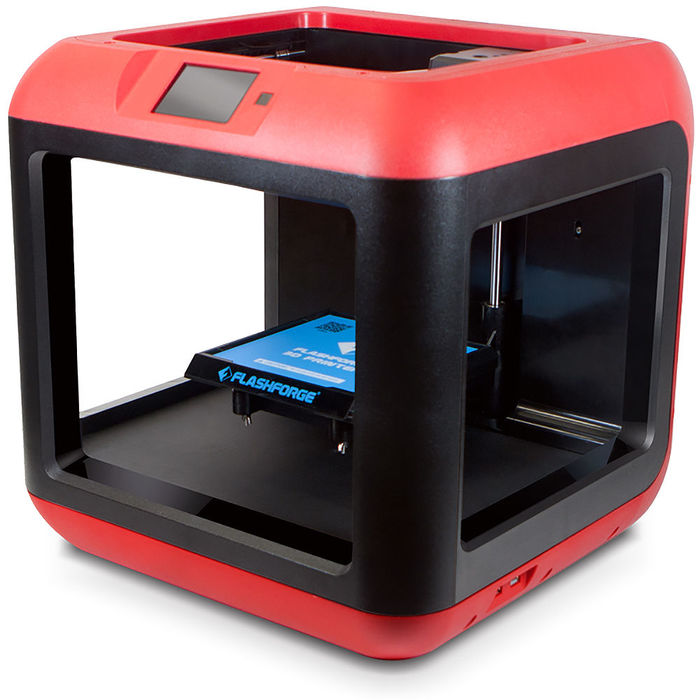
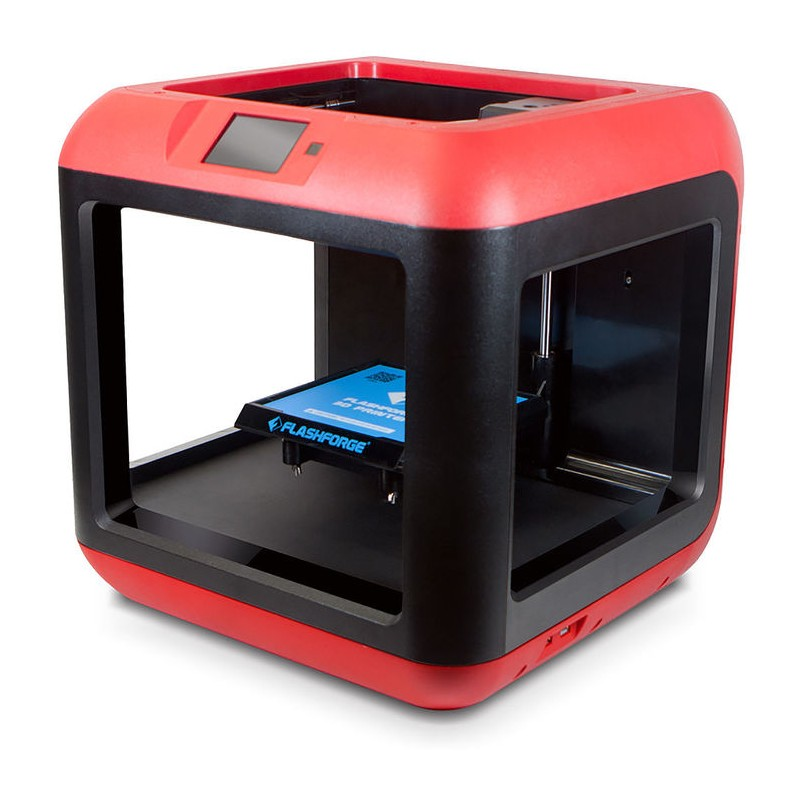
feat: padroniza as imagens dos equipamentos em quadrado branco
As 15 imagens compartilhavam altura de 700px, mas as larguras iam de 497 a
933 — proporcoes de 0,71 a 1,33. Como o CSS usava object-fit: cover, cada
uma era cortada de um jeito diferente: umas perdiam as laterais, outras o
topo. Era dai que vinha a falta de padrao nos cards.

Agora todas sao 800x800 com fundo branco e 6% de respiro, e os tres pontos
de renderizacao passam a usar 'contain' sobre ladrilho branco. Nomes e
extensoes preservados, porque o imagePath do banco aponta para eles.

Um desses pontos nao era CSS: o card do painel admin em Perfil.tsx usava
objectFit em estilo inline.

Tambem removidas de public/ as 14 copias identicas das mesmas imagens, que
nao eram usadas por codigo nenhum — o app monta as URLs contra
localhost:3000/uploads. Ficaram so o Termos_de_Uso.pdf e o background2.png,
que sao de fato referenciados. As copias ja tinham comecado a divergir:
faltava o Bambu_LAB_01.png em public/.

Ressalva: 8 das 15 sao fotos de ambiente, com parede e bancada visiveis. O
fundo delas continua aparecendo dentro do quadrado. Padronizar o
enquadramento e o que da para fazer sem substituir as fotos.

diff --git a/src/components/pages/Equipamentos.css b/src/components/pages/Equipamentos.css
@@ -100,7 +100,9 @@
 .card-image {
   height: 220px;
   width: 100%;
-  background: rgba(0, 0, 0, 0.2);
+  /* Ladrilho branco: as imagens sao normalizadas em quadrado branco,
+     entao o fundo do card precisa acompanhar para nao criar moldura. */
+  background: #ffffff;
   position: relative;
   display: flex;
   align-items: center;
@@ -111,7 +113,9 @@
 .card-image img {
   width: 100%;
   height: 100%;
-  object-fit: cover;
+  /* 'contain' e nao 'cover': com cover, cada imagem era cortada de um jeito
+     diferente conforme sua proporcao. Agora todas cabem inteiras. */
+  object-fit: contain;
   transition: transform 0.5s ease;
 }
 

diff --git a/src/components/pages/Perfil.tsx b/src/components/pages/Perfil.tsx
@@ -1095,7 +1095,10 @@ const Perfil: React.FC = () => {
                           style={{
                             width: "100%",
                             height: "100%",
-                            objectFit: "cover",
+                            // 'contain' + fundo branco: as imagens sao normalizadas
+                            // em quadrado branco, entao nada precisa ser cortado.
+                            objectFit: "contain",
+                            background: "#ffffff",
                           }}
                         />
                       ) : (

diff --git a/src/components/pages/EquipamentoDetalhes.css b/src/components/pages/EquipamentoDetalhes.css
@@ -45,15 +45,16 @@
 .details-image-wrapper {
     flex: 1;
     position: relative;
-    background: #000;
+    background: #ffffff;
     min-height: 300px;
 }
 
 .details-image {
     width: 100%;
     height: 100%;
-    object-fit: cover;
-    opacity: 0.9;
+    object-fit: contain;
+    /* Sem opacidade: sobre fundo branco ela apenas lavava a imagem. */
+    opacity: 1;
 }
 
 .details-image-wrapper .status-badge {
